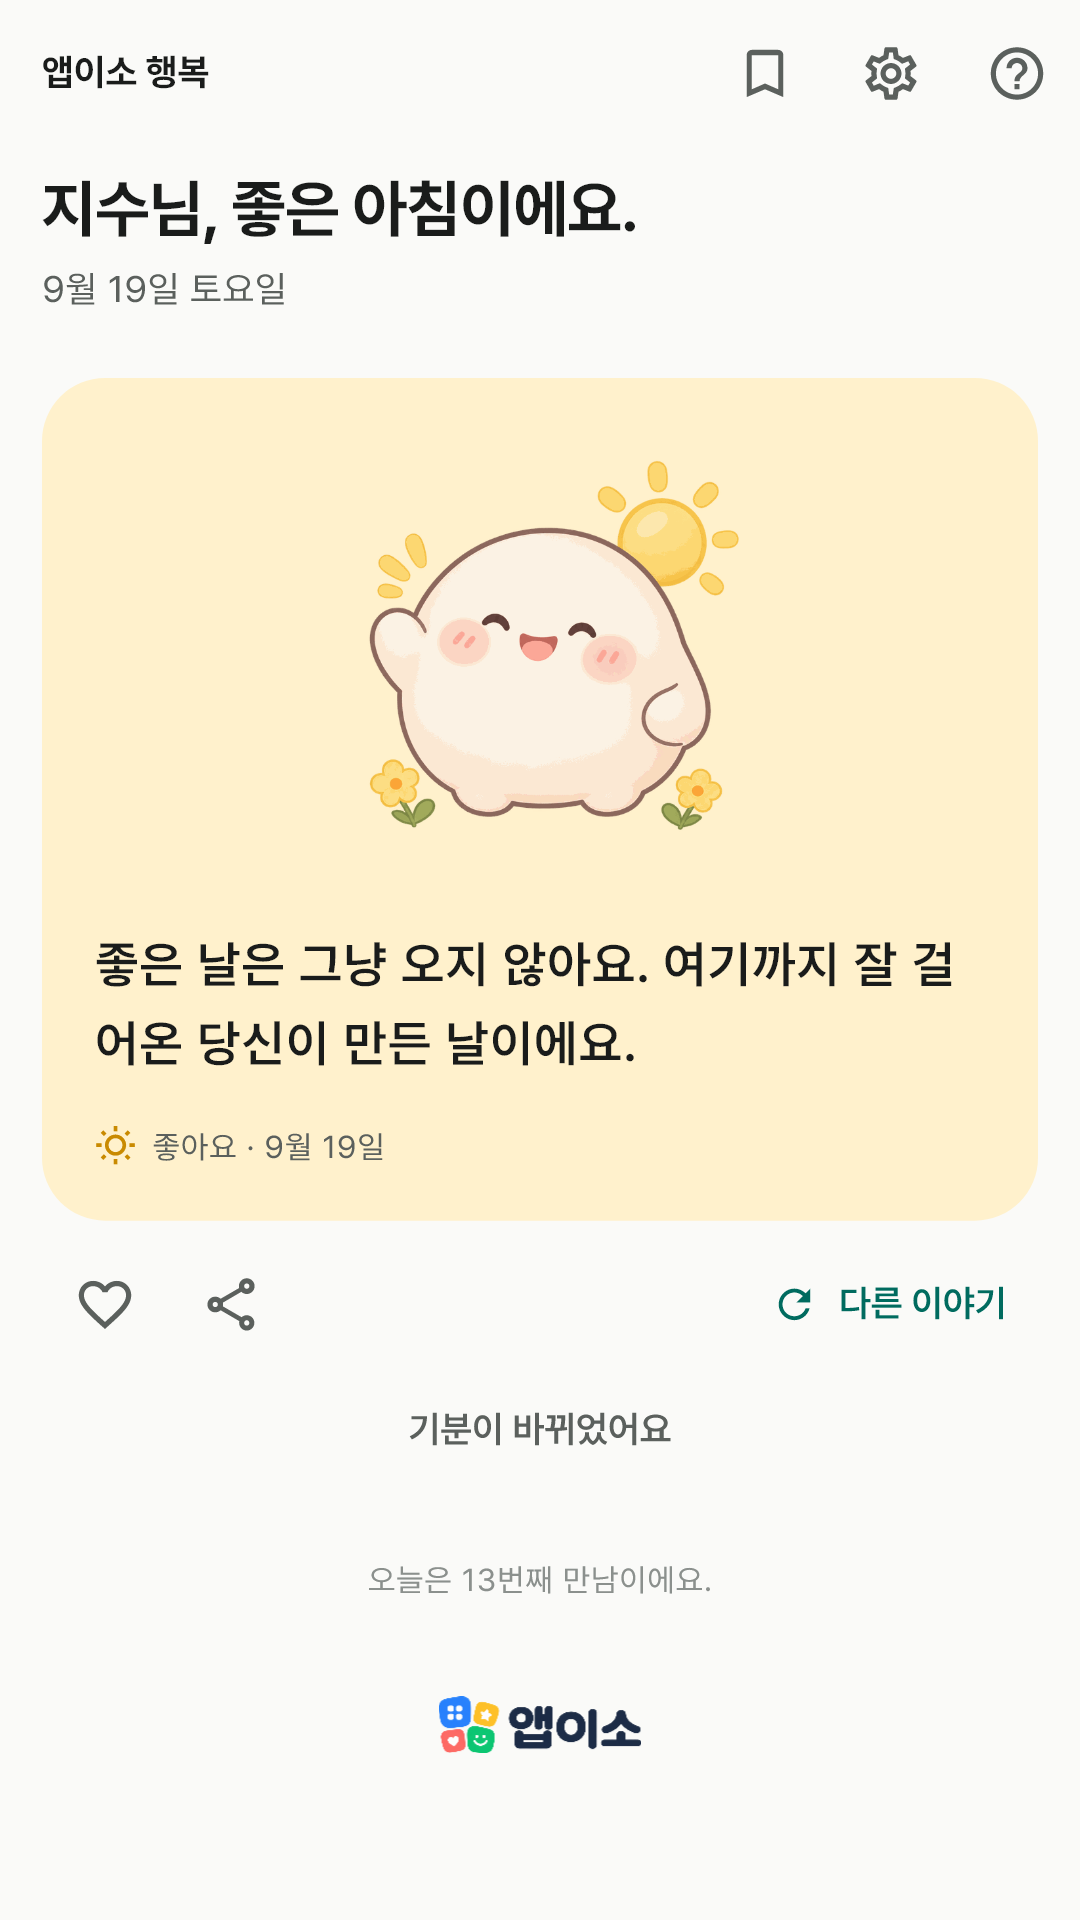
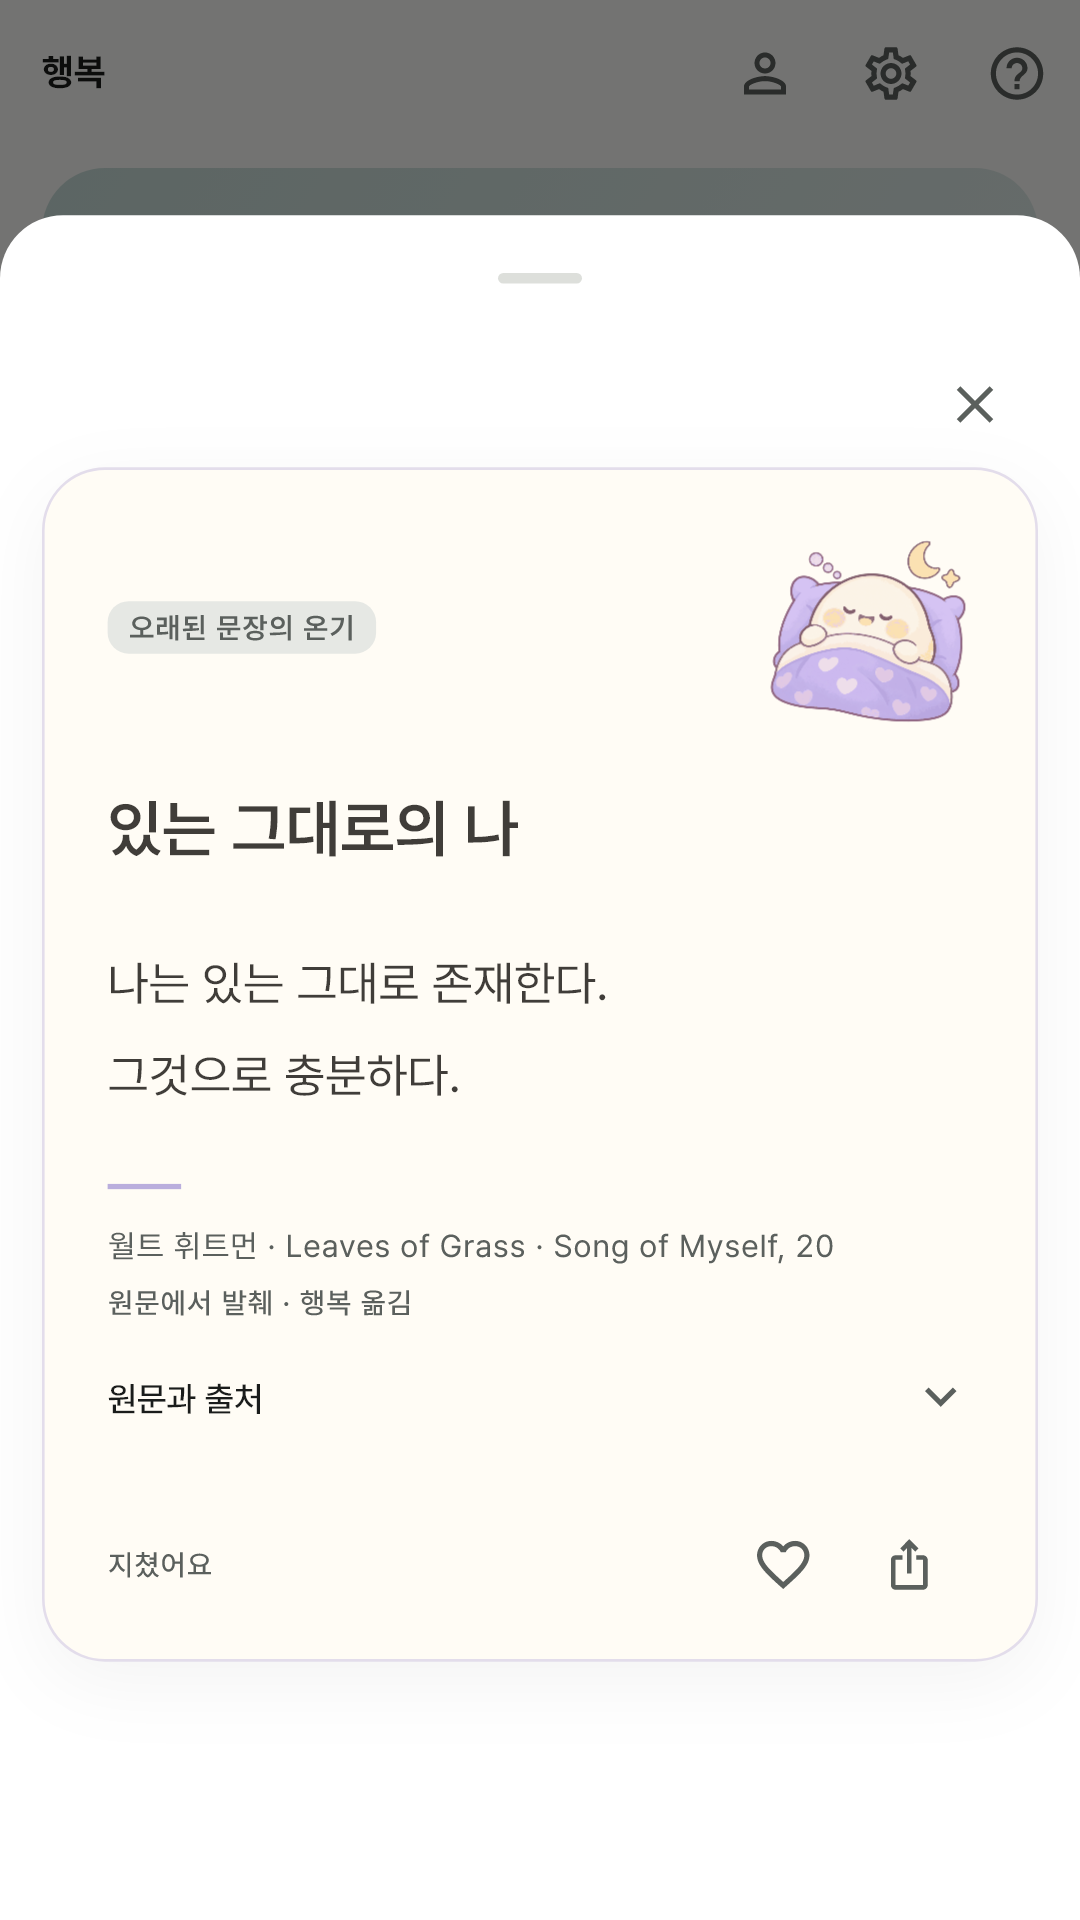
docs: 행복 앱 개편 소개와 개인정보 안내 및 화면 갱신

diff --git a/happy/index.html b/happy/index.html
@@ -3,8 +3,8 @@
 <head>
 <meta charset="utf-8">
 <meta name="viewport" content="width=device-width, initial-scale=1">
-<title>앱이소 행복 — 오늘 기분에 어울리는 위로·칭찬 한마디</title>
-<meta name="description" content="오늘 기분을 고르면 어울리는 위로와 칭찬 한마디를 그림과 함께 들려줘요. 하루 한 번이면 충분해요. 광고 없이 완전 무료, 인터넷 없이 동작합니다.">
+<title>앱이소 행복 — 당신의 하루에, 다정한 한 페이지</title>
+<meta name="description" content="오늘의 기분과 창밖 날씨에 어울리는 시와 문장. 창작 시·산문과 원전 출처를 밝힌 인용 1,212편을 읽고 싶은 만큼 펼쳐 보세요. 광고 없이 무료로, 인터넷 없이 읽을 수 있어요.">
 <style>
   :root { color-scheme: light; }
   body {
@@ -49,7 +49,7 @@
   <!-- 아이콘은 store/play-store-icon-512.png의 사본이다 — tool/publish_pages.ps1이 pages/happy/icon-512.png로 복사한다. -->
   <img src="./icon-512.png" alt="앱이소 행복 아이콘" onerror="this.style.display='none'">
   <h1>앱이소 행복</h1>
-  <p class="tagline">하루 한 번, 오늘 기분에 어울리는 한마디</p>
+  <p class="tagline">당신의 하루에, 다정한 한 페이지.</p>
 </header>
 
 <!-- 스토어에 공개되면: 아래 <span class="store-badge">…</span> 줄과 .store-note 문단을 지우고,
@@ -65,37 +65,42 @@
 
 <div class="box">
   광고 없이 <strong>완전 무료</strong>입니다. 결제도, 로그인도, 계정도 없습니다.
-  인터넷 권한을 아예 요청하지 않아서 <strong>비행기 모드에서도</strong> 그대로 쓸 수 있습니다.
-  이야기도 그림도 앱 안에 들어 있어서 내려받기를 기다릴 일이 없어요.
+  시와 문장, 그림이 앱에 들어 있어 <strong>인터넷 없이 읽을 수 있습니다.</strong>
+  인용의 원문도 앱 안에서 볼 수 있고, 출처 웹페이지를 열 때는 외부 브라우저와 인터넷 연결을 사용해요.
 </div>
 
 <h2>이런 앱이에요</h2>
 <p>
-  지친 하루의 끝에 “오늘 고생했어”라는 말 한마디가 듣고 싶을 때가 있죠.
-  앱이소 행복은 하루에 한 번, 오늘 기분을 고르면 그 기분에 어울리는 위로와 칭찬 한마디를
-  그림과 함께 들려주는 앱입니다. 적을 것도, 기억할 것도 없어요. 열고, 고르고, 한마디 듣고 나가면 그걸로 끝이에요.
+  빗소리를 듣는 오후에도, 작은 기쁨이 찾아온 아침에도 곁에 두고 싶은 문장이 있습니다.
+  앱이소 행복은 오늘의 기분과 창밖 날씨에 어울리는 시와 문장을 건네는 앱입니다.
+  종이처럼 편안한 카드와 다정한 모찌 그림을 따라, 읽고 싶은 만큼 천천히 펼쳐 보세요.
 </p>
 
 <h2>이런 걸 할 수 있어요</h2>
 <ul>
-  <li><strong>하루 한 번, 오늘 기분 어때요?</strong> — 좋아요 · 그냥 그래요 · 지쳤어요 · 속상해요 · 화가 나요 · 걱정돼요.
-    여섯 가지 중에서 하나만 고르면, 그 기분에 어울리는 이야기 한 편과 그림 한 장이 카드로 나와요.</li>
-  <li><strong>650편이 넘는 이야기</strong> — 아직 받은 적 없는 이야기 중에서 골라 드려요. 어제 들은 말이 오늘 또 나오지 않아요.
-    한 바퀴를 다 들으셨다면 그때 처음부터 다시 돌아요. [다른 이야기]를 누르면 같은 기분의 다른 편을 바로 받을 수 있고,
-    고른 기분이 아니었다 싶으면 [기분이 바뀌었어요]로 다시 고르면 됩니다.</li>
-  <li><strong>나에게 맞는 말로</strong> — 처음에 나이대·성별·직업을 한 번만 골라 두면 그에 맞는 이야기도 섞어서 들려드려요.
-    부르고 싶은 이름을 적어 두면 “지수님, 오늘 여기까지 온 것만으로 충분해요”처럼 이름을 불러 드려요. 안 적어도 됩니다.</li>
-  <li><strong>그림 스물다섯 장</strong> — 기분마다 네 장씩, 같은 친구가 그날 기분에 맞는 모습으로 찾아와요.
-    같은 기분을 골라도 카드마다 다른 그림이 나와요.</li>
-  <li><strong>마음에 남는 말은 보관함에</strong> — 하트를 누르면 보관함에 담겨요. 힘든 날 꺼내서 다시 읽으면 되고,
+  <li><strong>오늘의 다섯 편, 그리고 더 읽기</strong> — 좋아요 · 그냥 그래요 · 지쳤어요 · 속상해요 · 화가 나요 · 걱정돼요.
+    여섯 기분 중 하나를 고르면 다섯 편을 추천해요. [다섯 편 더 읽기]로 하루 제한 없이 이어 읽을 수 있어요.
+    추천은 아직 받지 않은 글을 우선하고, 현재 조건에 맞는 글을 모두 읽으면 다시 돌아요.</li>
+  <li><strong>창밖 날씨에 어울리는 글</strong> — 맑음 · 흐림 · 비 · 눈 · 바람 · 더위 중에서 직접 골라 주세요.
+    건너뛰어도 괜찮아요. 날씨를 바꾸면 다섯 편을 새로 추천하고 다음 날에는 다시 고를 수 있어요.
+    위치나 자동 예보를 사용하지 않아요.</li>
+  <li><strong>시·산문·인용 1,212편</strong> — 직접 쓴 시와 짧은 산문 1,200편, 오래된 작품에서 고른 인용 12편을 담았어요.
+    인용에는 저자와 작품, 원문과 원전 출처를 함께 밝히고 직접 한국어로 옮겼어요.</li>
+  <li><strong>글 모음에서 자유롭게</strong> — 제목·문장·작가로 검색하거나 시·산문·인용, 기분, 날씨로 골라 읽어요.
+    프로필과 관계없이 모든 글을 둘러볼 수 있어요.</li>
+  <li><strong>언제든 고치는 프로필</strong> — 별명·나이대·성별·일상은 모두 선택 사항이에요.
+    나이대와 일상을 고르면 그에 맞는 글도 추천해요. 홈 오른쪽 위에서 수정하면 오늘의 다섯 편에 바로 반영되고,
+    보관함에 담은 글은 그대로 남아요.</li>
+  <li><strong>마음에 남는 글은 보관함에</strong> — 하트로 담아 두고 다시 읽어요. 제목과 문장, 저자와 출처를 담아
     메신저나 메모 앱으로 공유할 수도 있어요.</li>
+  <li><strong>그림 스물다섯 장</strong> — 모찌가 기분에 어울리는 모습으로 함께해요. 따뜻한 종이색 카드에 문장을 담았어요.</li>
   <li><strong>밝게 · 어둡게</strong> — 시스템 설정을 따르거나 직접 고를 수 있어요. 밤에 열어도 눈이 부시지 않아요.</li>
 </ul>
 
 <h2>이 앱이 하지 않는 것</h2>
 <ul>
-  <li>기분을 날짜별로 기록하거나 그래프로 보여주지 않아요. 오늘 카드 한 장이 전부입니다.</li>
-  <li>무엇을 하라고 시키거나 처방하지 않아요. 그냥 듣기 좋은 말 한마디를 건넬 뿐이에요.</li>
+  <li>기분을 날짜별로 기록하거나 그래프로 보여주지 않아요. 오늘 읽는 글과 직접 담은 보관함을 남겨요.</li>
+  <li>글을 읽는 횟수나 속도를 정하지 않아요. 자기에게 편한 만큼 머물면 됩니다.</li>
   <li>알림을 보내지 않아요. 생각날 때 열면 됩니다.</li>
 </ul>
 
@@ -104,20 +109,21 @@
      (flutter test --update-goldens tool/screenshots/store_screenshot_test.dart)
      tool/publish_pages.ps1로 복사한다. 캡션은 store/play-listing.md "스크린샷 순서와 설명" 표와 맞춘다. -->
 <section class="shots">
-<figure><img src="shots/01-mood.png" alt="오늘 기분 어때요? 여섯 가지 기분 타일과 지금까지 만난 횟수" loading="lazy"><figcaption>오늘 기분 하나만 고르면 돼요.</figcaption></figure>
-<figure><img src="shots/02-tired.png" alt="지쳤어요 카드 — 그림, 한마디, 하트·공유·다른 이야기 버튼" loading="lazy"><figcaption>그림 한 장과 한마디가 카드로.</figcaption></figure>
-<figure><img src="shots/03-good.png" alt="좋아요 카드 — 기분마다 다른 카드 색과 그림" loading="lazy"><figcaption>기분마다 색과 그림이 바뀌어요.</figcaption></figure>
-<figure><img src="shots/04-worried.png" alt="걱정돼요 카드" loading="lazy"><figcaption>걱정되는 날에는 이런 말을.</figcaption></figure>
-<figure><img src="shots/05-favorites.png" alt="보관함 — 하트로 담아 둔 이야기 목록" loading="lazy"><figcaption>마음에 남는 말은 보관함에.</figcaption></figure>
-<figure><img src="shots/06-start.png" alt="첫 화면 — 이름(선택)과 나이대·성별·직업 고르기" loading="lazy"><figcaption>처음 한 번만 골라 두면 돼요.</figcaption></figure>
+<figure><img src="shots/01-mood.png" alt="오늘 홈 — 기분과 창밖 날씨를 고르고 글을 만나는 화면" loading="lazy"><figcaption>오늘의 기분과 창밖 날씨.</figcaption></figure>
+<figure><img src="shots/02-tired.png" alt="비 오는 날에 어울리는 창작 시 읽기" loading="lazy"><figcaption>비 오는 날, 시 한 편에 머물러요.</figcaption></figure>
+<figure><img src="shots/03-good.png" alt="휘트먼 인용 — 한국어로 옮긴 문장과 저자·작품·원문·출처" loading="lazy"><figcaption>오래된 문장, 원문과 출처까지.</figcaption></figure>
+<figure><img src="shots/04-worried.png" alt="글 모음 — 검색과 종류·기분·날씨 필터" loading="lazy"><figcaption>1,212편에서 오늘의 문장을 찾아요.</figcaption></figure>
+<figure><img src="shots/05-favorites.png" alt="보관함 — 하트로 담아 둔 글 목록" loading="lazy"><figcaption>마음에 남는 글은 보관함에.</figcaption></figure>
+<figure><img src="shots/06-start.png" alt="첫 화면 — 모두 선택 사항인 별명·나이대·성별·일상 입력" loading="lazy"><figcaption>비워 둬도 괜찮고, 나중에 고쳐도 돼요.</figcaption></figure>
 </section>
 <p>화면에 보이는 이름과 인사말, 날짜는 기능을 설명하기 위한 예시입니다.</p>
 
 <h2>개인정보</h2>
 <p>
-  이 앱은 개인정보를 수집하지 않습니다. 회원가입이 없고 이름도, 이메일도 묻지 않습니다.
-  고른 기분은 그날 이야기를 고르는 데에만 쓰고 날짜별로 남기지 않아요.
-  별명·나이대·성별·직업과 보관함은 휴대폰 안에 저장되고 개발자에게 전송되지 않습니다.
+  이 앱에는 회원가입이 없고 개발자에게 개인정보를 전송하지 않습니다.
+  별명·나이대·성별·일상은 선택해서 입력하며, 기분과 날씨는 오늘 읽을 글을 고르는 데 사용해요.
+  기분을 날짜별로 모으거나 위치를 알아내지 않아요. 프로필·오늘의 글·선택 날씨·보관함과 받은 글 ID,
+  만남 횟수·마지막 만난 날짜·테마 설정은 휴대폰에 저장됩니다.
   폰을 바꿀 때 보관함이 따라오도록 구글 계정 자동 백업은 켜 두었어요 — 백업은 안드로이드가
   사용자 계정으로 하는 기능이고, 개발자는 그 내용을 받지 않습니다. 자세한 내용은
   <a href="./privacy.html">개인정보처리방침</a>을 확인해 주세요.

diff --git a/happy/privacy.html b/happy/privacy.html
@@ -1,9 +1,9 @@
 <!doctype html>
 <html lang="ko"><head><meta charset="utf-8"><meta name="viewport" content="width=device-width,initial-scale=1"><title>앱이소 행복 개인정보처리방침</title>
 <style>body{font:16px/1.8 system-ui,sans-serif;max-width:720px;margin:auto;padding:40px 24px;color:#20312b;background:#fafaf8}h1{font-size:28px}h2{font-size:20px;margin-top:32px}a{color:#00796b}</style></head><body>
-<h1>앱이소 행복 개인정보처리방침</h1><p>시행일: 2026년 9월 18일</p>
-<h2>1. 기기에 저장하는 정보</h2><p>사용자가 첫 화면에서 고른 나이대·성별·직업과 별명(선택), 오늘 받은 이야기 한 편, 보관함에 담은 이야기, 이야기를 받은 날의 수, 화면 테마 설정을 앱 전용 저장소에 보관합니다. 고른 기분은 그날 들려줄 이야기를 고르는 데만 쓰며 날짜별로 기록하거나 모아서 보여주지 않습니다. 개발자 서버가 없으며 입력한 내용을 개발자에게 전송하지 않습니다. 가입, 로그인, 광고, 결제, 분석·크래시 수집 SDK를 사용하지 않고 인터넷 권한도 요청하지 않습니다.</p>
-<h2>2. 권한과 공유</h2><p>이 앱은 Android 권한을 요청하지 않습니다. 연락처, 위치, 사진, 마이크, 알림 등 어떤 권한도 쓰지 않습니다. 사용자가 이야기 카드의 공유 버튼을 누르면 Android 공유 화면이 열리고, 사용자가 고른 앱으로 그 이야기의 본문만 전달됩니다. 이 과정은 사용자가 누를 때만 일어나며 앱이 스스로 무엇도 보내지 않습니다.</p>
+<h1>앱이소 행복 개인정보처리방침</h1><p>시행일: 2026년 9월 20일</p>
+<h2>1. 기기에 저장하는 정보</h2><p>사용자가 선택적으로 입력한 나이대·성별·일상과 별명, 직접 선택한 오늘의 날씨, 오늘 펼친 글들, 보관함에 담은 이야기, 이야기를 받은 날의 수, 화면 테마 설정을 앱 전용 저장소에 보관합니다. 고른 기분은 그날 들려줄 이야기를 고르는 데만 쓰며 날짜별로 기록하거나 모아서 보여주지 않습니다. 날씨는 직접 고른 값만 사용하며 위치나 기상 정보를 조회하지 않습니다. 날씨와 오늘의 글은 날짜가 바뀌면 화면에서 제외하고 다음 저장 시 정리합니다. 개발자 서버가 없으며 입력한 내용을 개발자에게 전송하지 않습니다. 가입, 로그인, 광고, 결제, 분석·크래시 수집 SDK를 사용하지 않고 인터넷 권한도 요청하지 않습니다.</p>
+<h2>2. 권한과 공유</h2><p>이 앱은 Android 권한을 요청하지 않습니다. 연락처, 위치, 사진, 마이크, 알림 등 어떤 권한도 쓰지 않습니다. 사용자가 이야기 카드의 공유 버튼을 누르면 Android 공유 화면이 열리고, 사용자가 고른 앱으로 그 글의 제목·본문·저자 및 출처 링크가 전달됩니다. 이 과정은 사용자가 누를 때만 일어나며 앱이 스스로 무엇도 보내지 않습니다.</p>
 <h2>3. 백업과 삭제</h2><p>Android 자동 백업이 켜져 있으면 앱 데이터가 사용자 본인의 Google 계정 백업에 포함될 수 있습니다. 백업은 Android 플랫폼 기능이며 개발자는 그 내용을 받지 않습니다. 옵션의 [모두 지우고 처음부터]로 프로필과 보관함을 포함한 모든 데이터를 앱 안에서 직접 삭제할 수 있고, 앱 제거 또는 데이터 삭제 시에도 삭제됩니다.</p>
-<h2>4. 외부 링크</h2><p>소개 페이지, 온라인 개인정보처리방침과 문의 메일은 사용자가 누를 때 외부 브라우저 또는 메일 앱에서 열립니다. 외부 서비스에는 해당 서비스의 정책이 적용됩니다.</p>
+<h2>4. 외부 링크</h2><p>인용문의 원전 출처, 소개 페이지, 온라인 개인정보처리방침과 문의 메일은 사용자가 누를 때 외부 브라우저 또는 메일 앱에서 열립니다. 외부 서비스에는 해당 서비스의 정책이 적용됩니다.</p>
 <h2>5. 문의</h2><p><a href="mailto:appisoLabs@gmail.com">appisoLabs@gmail.com</a></p></body></html>
